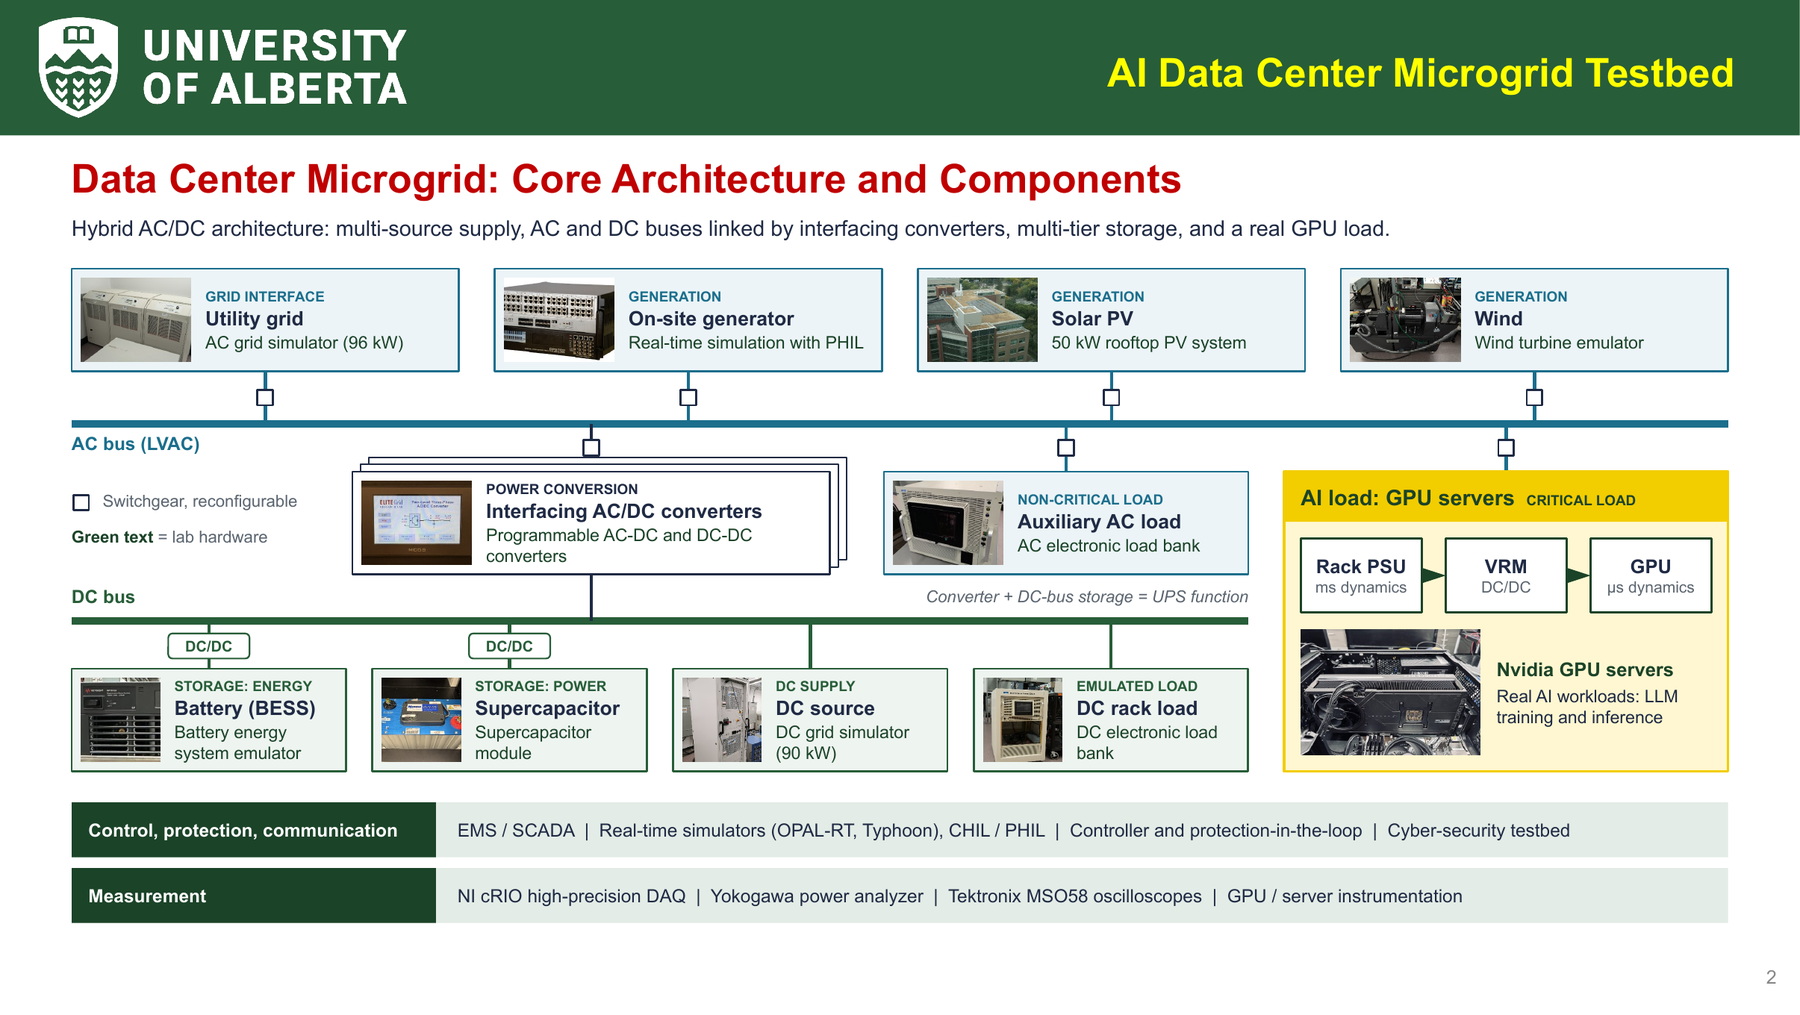
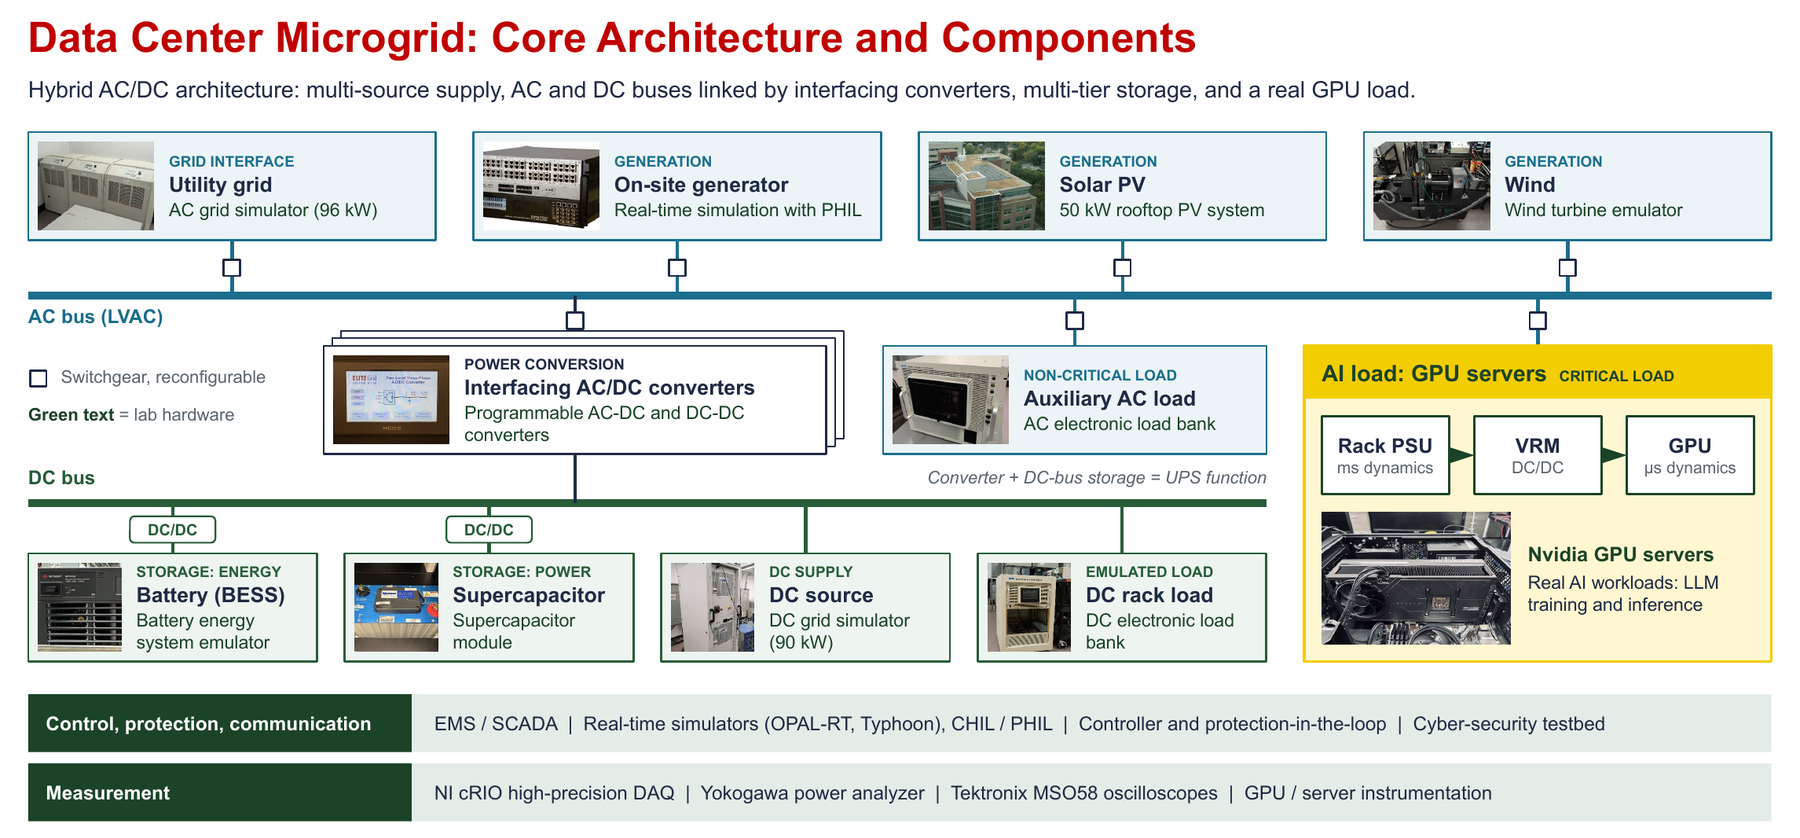
docs: add ownership and ongoing-research notice, crop testbed figure

diff --git a/README.md b/README.md
@@ -10,6 +10,8 @@ ELITE Grid Research Lab, University of Alberta
 
 You scanned the QR code on our poster. This page holds the results behind it: what the agent did, what it measured, and where it fell short.
 
+> **Ongoing research.** This page reports work in progress at the ELITE Grid Research Lab. The results are preliminary, have not been peer reviewed, and may change as the work continues. All content is owned by the lab; see [Ownership and status](#ownership-and-status).
+
 | | Desktop simulation | Real-time simulation |
 | --- | --- | --- |
 | **Task given to the agent** | Build and refine an FCS-MPC controller for an induction motor drive | Limit the grid power peak of an AI data center model after a voltage sag |
@@ -200,10 +202,16 @@ Shared here: figures, result numbers and the description of the workflow.
 
 Not shared: the Simulink and RT-LAB models, the controller source, the agent configuration and prompts, the tool-layer implementation, and the test bank. These are part of ongoing research at the lab. If you would like to collaborate or see more, please get in touch.
 
+## Ownership and status
+
+**Ownership.** All content in this repository, including text, figures, diagrams, data, recordings and the poster artwork, is the property of the authors and the ELITE Grid Research Lab, University of Alberta. © 2026. All rights reserved. No part may be reproduced, redistributed or used in other work without prior written permission from the lab. Sharing a link to this page is welcome.
+
+**Status.** This repository documents part of an ongoing research project. The methods and results shown here are preliminary and unpublished, have not been peer reviewed, and are subject to revision. Please contact us before citing them.
+
+**Trademarks.** MATLAB and Simulink are trademarks of The MathWorks, Inc. OPAL-RT and RT-LAB are trademarks of OPAL-RT Technologies. IEEE and ECCE names and logos belong to IEEE. Other product names are the property of their owners. Their use here does not imply endorsement.
+
 ## Team and contact
 
 Joseph O. Akinwumi, Yuzhuo Li, Pasan Gunawardena, Violet Villeneuve, Bowei Li and Yunwei (Ryan) Li, ELITE Grid Research Lab, Department of Electrical and Computer Engineering, University of Alberta.
 
 Contact: open an issue on this repository, or find us at the Student Project Demonstration in the exhibit hall.
-
-© 2026 ELITE Grid Research Lab, University of Alberta. Figures may be reused with attribution.
